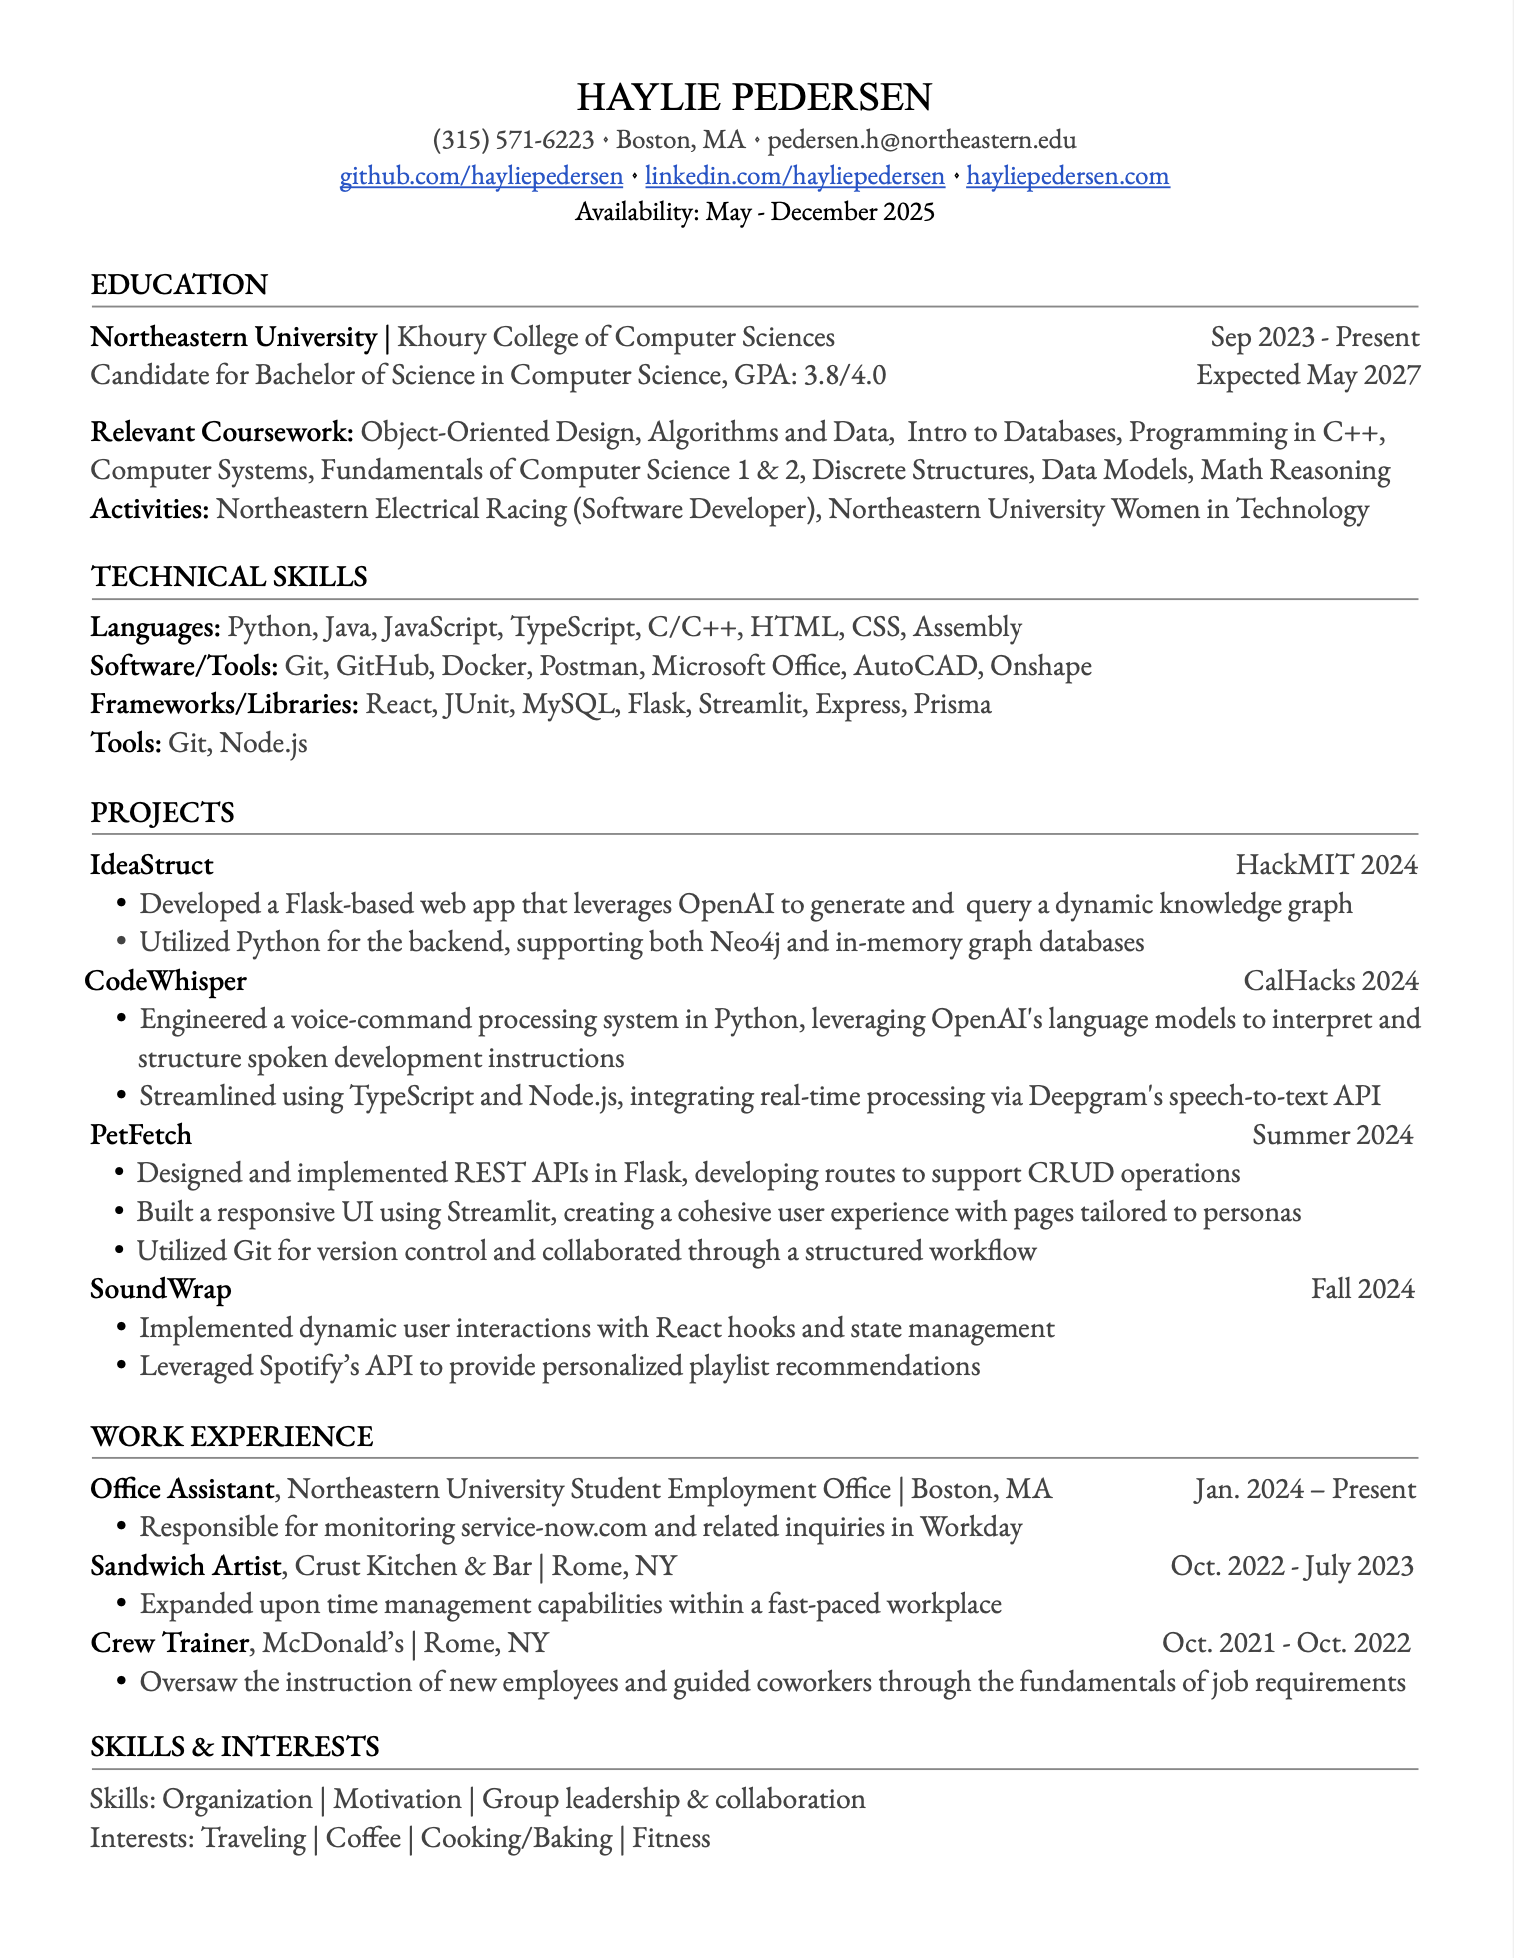
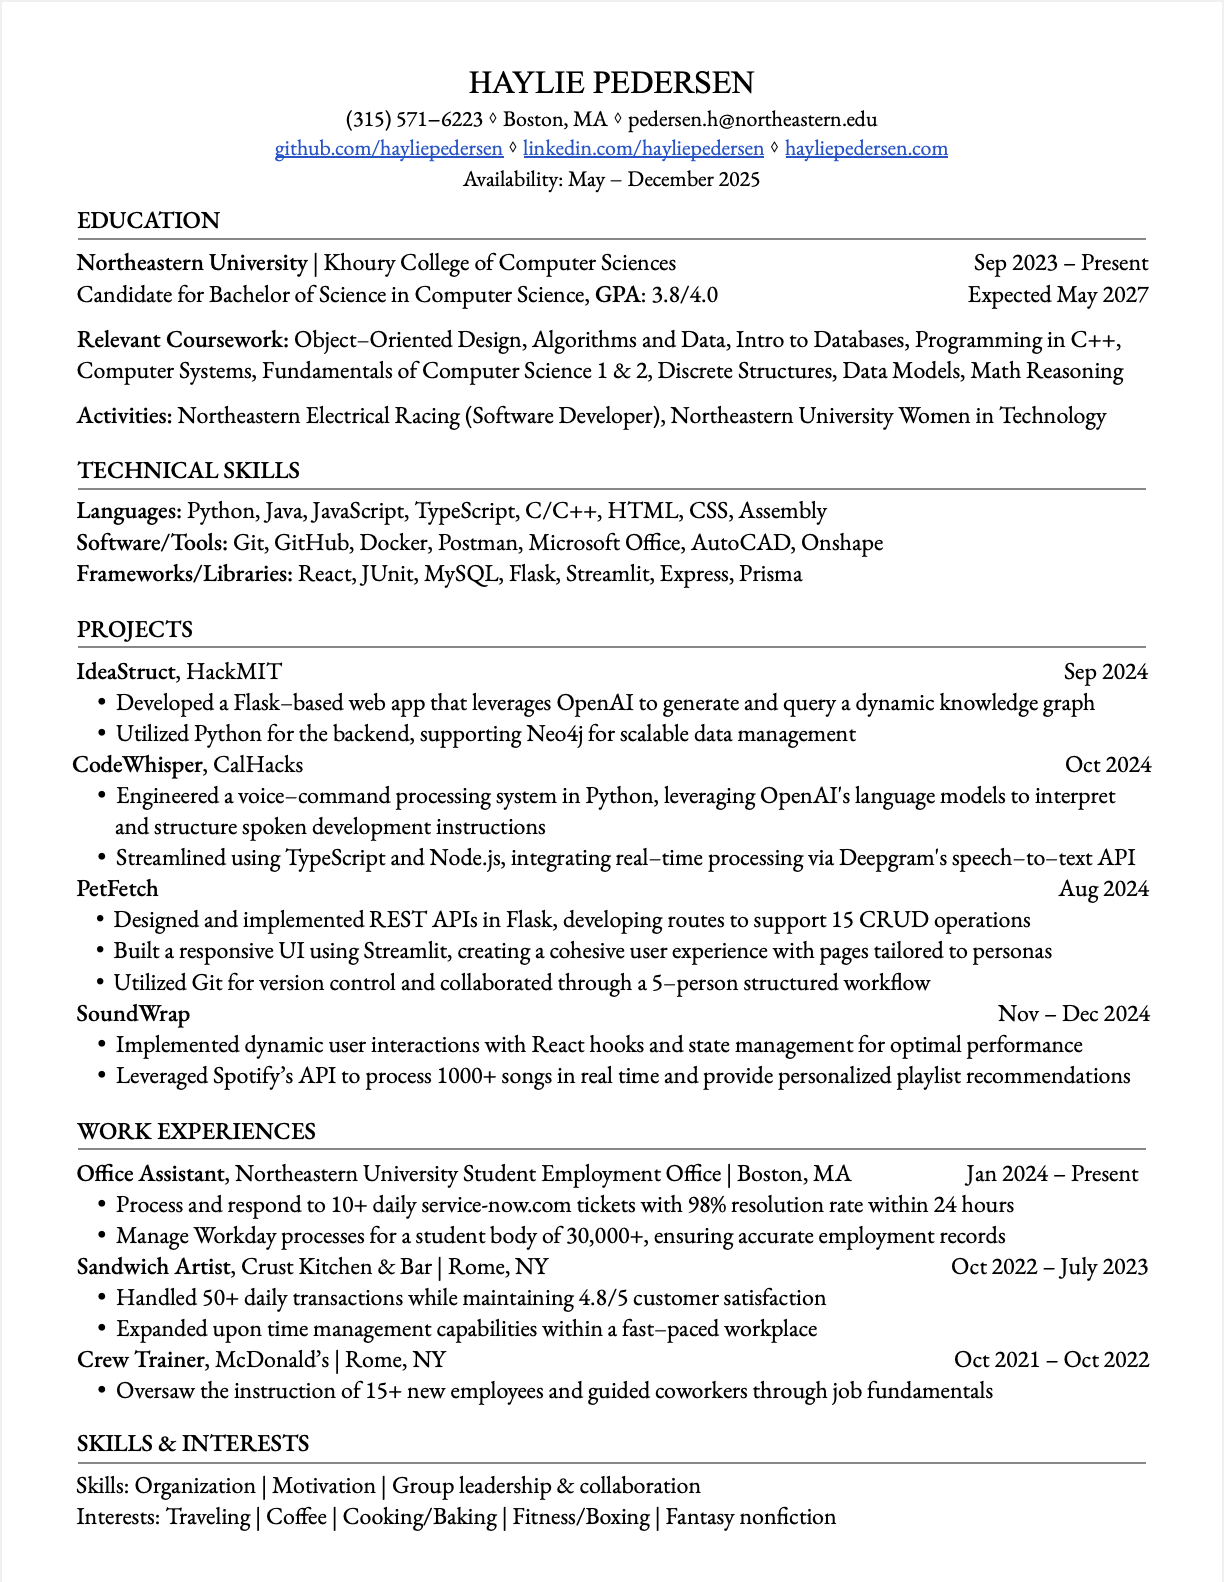
updated resume and font weights

Changed region(s): [[0.0621, 0.1239, 0.9314, 0.9602], [0.2173, 0.031, 0.7761, 0.1239]]

diff --git a/src/app/page.module.css b/src/app/page.module.css
@@ -1,23 +1,35 @@
 @font-face {
   font-family: 'ButlerUltraLight';
-    src: url('/fonts/Butler-UltraLight.woff2') format('woff2'), 
+  src: url('/fonts/Butler-UltraLight.woff2') format('woff2'), 
          url('/fonts/Butler-UltraLight.woff') format('woff');  
-    font-weight: 300; 
-    font-style: normal;
+  font-weight: 200; 
+  font-style: normal;
 }
 
 @font-face {
   font-family: 'ButlerLight';
-    src: url('/fonts/Butler-Light.woff2') format('woff2'), 
+  src: url('/fonts/Butler-Light.woff2') format('woff2'), 
          url('/fonts/Butler-Light.woff') format('woff');  
-    font-weight: 500; 
-    font-style: normal;
+  font-weight: 500; 
+  font-style: normal;
 }
 
 @font-face {
   font-family: 'ButlerStencilUltraLight';
-    src: url('/fonts/ButlerStencil-UltraLight.woff2') format('woff2'), 
+  src: url('/fonts/ButlerStencil-UltraLight.woff2') format('woff2'), 
          url('/fonts/ButlerStencil-UltraLight.woff') format('woff');
+}
+
+@supports (-webkit-appearance:none) and (not (-moz-appearance:none)) {
+  .headerSection h1,
+  .footer h2,
+  .timelineCard h3,
+  .sectionTitle,
+  .aboutText h2,
+  .projectCard h3,
+  .projects h2 {
+    font-weight: 250;
+  }
 }
 
 .page {
@@ -59,7 +71,7 @@
 
 .headerSection {
   font-family: 'ButlerStencilUltraLight', serif;
-  font-weight: 200; 
+  font-size: 200;
   font-stretch: condensed; 
   transform: scaleX(0.9) scaleY(1.2);
   text-align: center;
@@ -834,7 +846,7 @@
 
 .heading {
   font-size: 1.25rem; 
-  font-weight: 600; 
+  font-weight: 500; 
   color: var(--accent-secondary);
   margin-bottom: -10px; 
 }

diff --git a/src/components/work.tsx b/src/components/work.tsx
@@ -14,14 +14,14 @@ const WorkTimeline = () => {
       title: "Crew Trainer",
       company: "McDonald's",
       period: "2021 - 2022",
-      description: "Oversaw the instruction of new employees and guided coworkers through the fundamentals of job requirements. Enhanced team collaboration by developing clear communication strategies and tools.",
+      description: "Oversaw the instruction of new employees and guided coworkers through the fundamentals of job requirements. Enhanced team collaboration through developing clear communication strategies and tools.",
       icon: "🍟"
     },
     {
       title: "Sandwich Artist",
       company: "Crust Kitchen & Bar",
       period: "2022 - 2023",
-      description: "Greeted customers as they entered the restaurant and prepared various food items. Leveraged problem-solving skills to address real-time challenges in a dynamic work environment.",
+      description: "Greeted customers as they entered the restaurant and prepared various food items. Honed problem-solving skills to address real-time challenges in a dynamic work environment.",
       icon: "🍞"
     },
     {

diff --git a/src/components/events.tsx b/src/components/events.tsx
@@ -35,8 +35,8 @@ const EventsGallery = () => {
       },
       { 
         id: 2, 
-        title: "Google DevFest",
-        description: "Attended Google DevFest, gained hands-on experience with cutting-edge technologies and connected with a vibrant community of developers.",
+        title: "Google DevFest !!",
+        description: "Attended Google DevFest, gained hands-on experience with cutting-edge technologies and connected with a vibrant community of developers. (Ate a lot of yummy food)",
         date: "November 2024",
         images: [
           { url: "/media/events/devfest1.jpeg", alt: "Speaker Event" },
